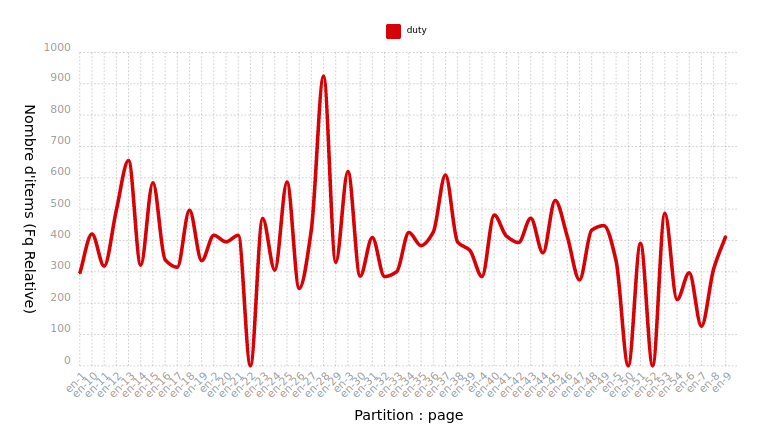
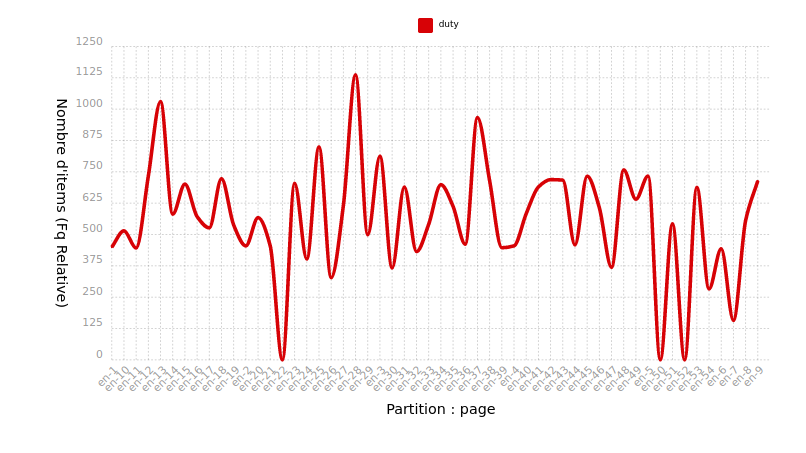
analyse itrameur anglais

diff --git a/vue/analyse.html b/vue/analyse.html
@@ -44,16 +44,17 @@
       <img src="../images/anglais.png" alt="dic" style="margin-top: 3%; margin-left: 40%; width: 20%; height: 40vh; ">
     </div>
     <div class="img_anglais1_description">
-      <p>Le mot duty est le sujet de notre étude et il a été volontaire de remplacer toutes les variations et flexions du mot par une seule forme. De plus, il s’agit du fichier contextes-en.txt donc le fichier est construit sur la base de ce mot. Pour le reste, rien d’étonnant puisqu’après vérification, le fichier contexte contient beaucoup de liens donc il n’est pas surprenant de trouver https ou www dans les résultats les plus fréquents.</p>
+      <p>Le mot 'duty' est le sujet de notre étude pour la partie anglais. Il a été volontaire d'uniformiser notre fichier en remplaçant toutes les variations et flexions du mot par une seule forme. De plus, il s’agit du fichier contextes-en.txt donc le fichier est construit sur la base de ce mot. Pour le reste, les résultats les plus présents ne sont pas surprenant, mais certains nous permettent déjà de dresser une tendance quant aux mots les plus fréquents qui sont mentionnés dans les articles qui contiennent le mot 'duty'. En regardant un peu plus loin dans les résultats, on tombe sur d'autres mots en lien avec la politique, les taxes et la gestion de services et finances publiques. A cette première étape, l'hypothèse de départ sur l'anglais semble être plausible.</p>
     </div>
       <div class="img_anglais2_et_3">
         <img src="../images/anglais1.png" alt="tableau_frequence" style="margin-top: 3%; margin-left: 15%; width: 30%; height: 30vh; ">
         <img src="../images/anglais2.png" alt="tableau_frequence" style="margin-top: 3%; margin-right: 10%; width: 30%; height: 30vh; ">
       </div>
-      <p>La répartition du mot duty sur toutes les pages est la suivante (au-dessus) : Cela peut nous donner une piste pour observer la fréquence des cooccurrents de duty dans les différentes url récupérées.</p>
+      <p>Le mot 'duty' est réparti de la façon suivante. Ce résultat est obtenu en faisant une partition par page. Cela peut nous donner une piste pour observer la fréquence des cooccurrents de duty au niveau des différentes urls récupérées. On choisit de se concentrer sur l'analyse par fréquence relative pour avoir une idée plus représentative, ainsi que sur la sous- et sur-représentation du mot grâce à l'indice de spécificité.</p>
       <div class="img_anglais4">
         <img src="../images/anglais3.png" alt="tableau_frequence" style="margin-top: 3%; margin-left: 37%; width: 30%; height: 50vh; ">
       </div>
+      <p>Les cooccurrents permettent de finaliser nos résultats et d'infirmer ou confirmer nos hypothèses de départ. Dans les mots les plus fréquemment liés à 'duty' nous retrouvons bien un vocabulaire plutôt financier, politique ou de gestion. On retrouve également le mot 'call', qui, après avoir inspecté ses contextes, est bien le jeu Call of Duty. Ces deux résultats étaient à prévoir. Cependant, une partie de notre hypothèse n'est pas confirmée puisque nous ne retrouvons pas de lien entre 'duty' et un vocabulaire lié à des élections. D'ailleurs, en diminuant l'indice de spécificité, les mots sont davantage variés mais toujours dans les domaines cités précédemment, et non sur des élections.</p>
 </div> 
 
 
